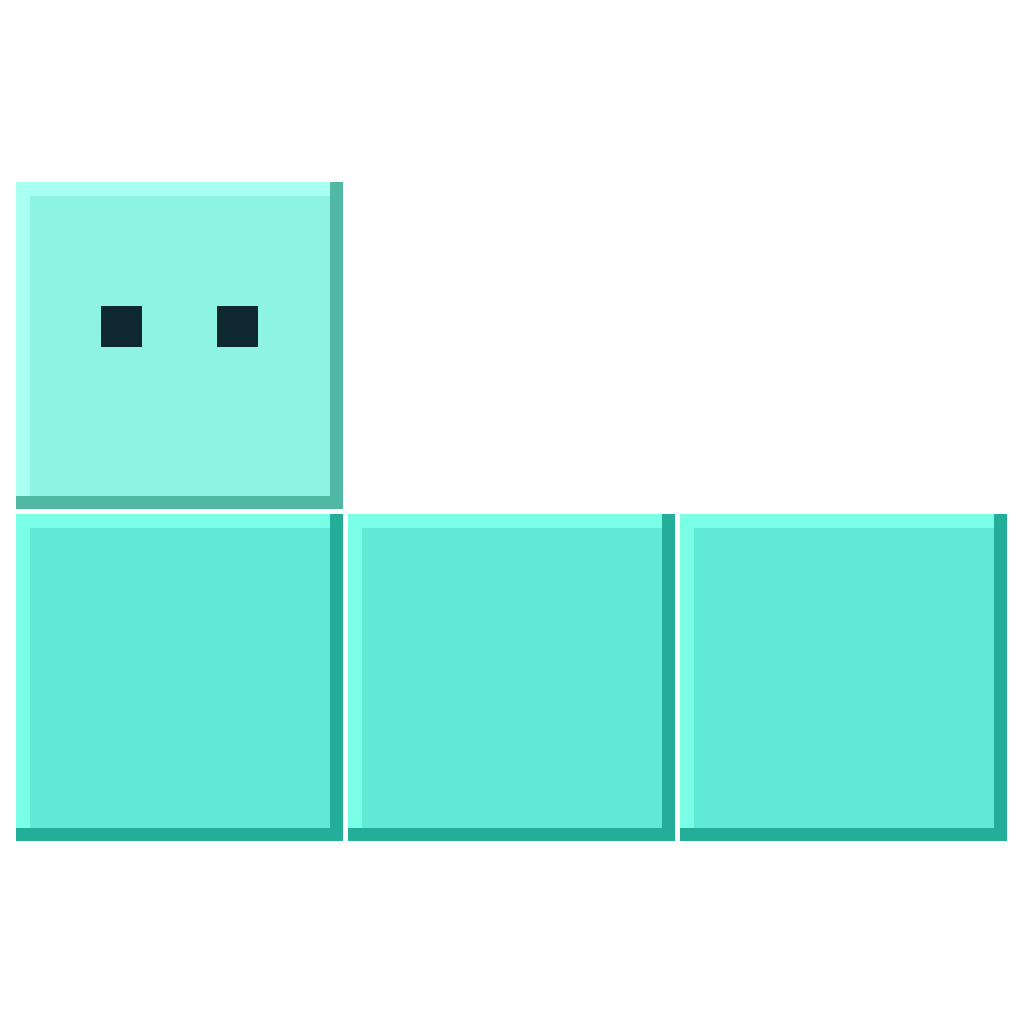
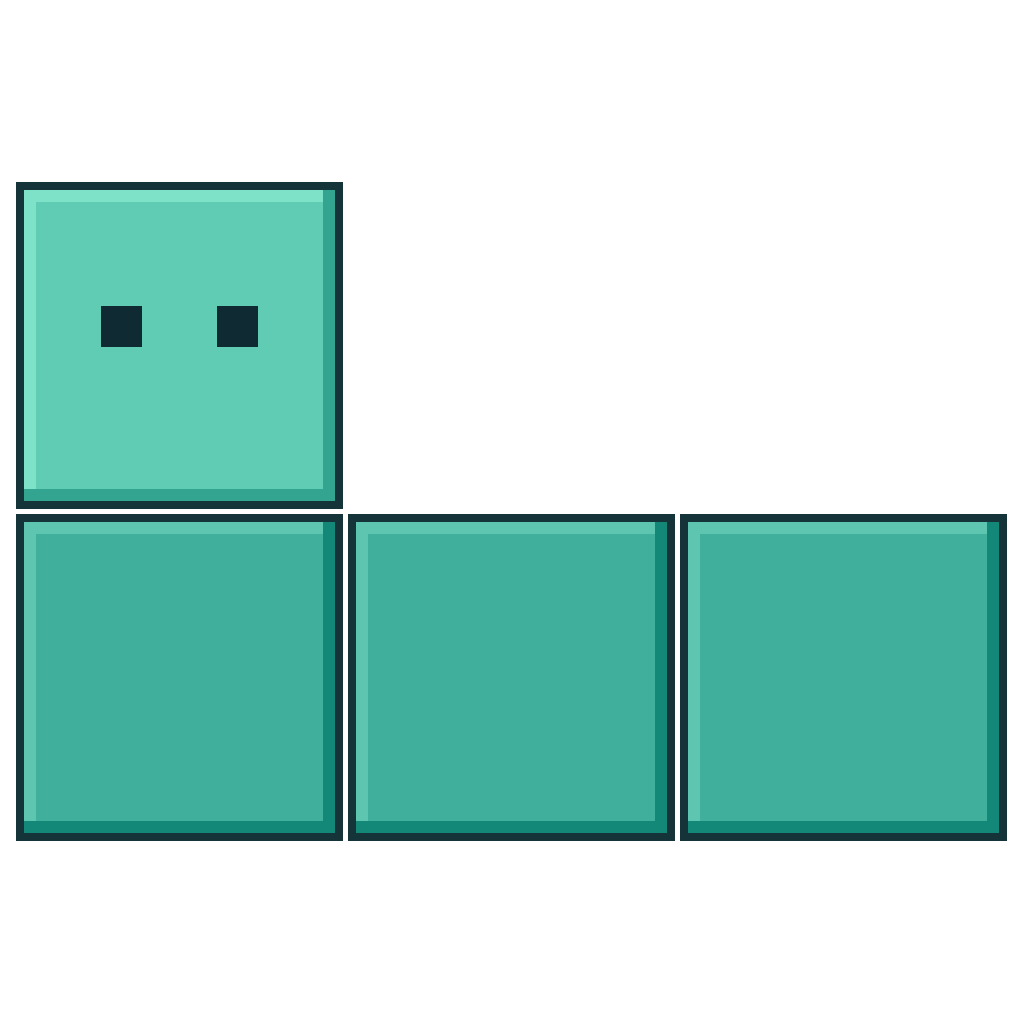
Fix readability across light/dark environments
- Diary dialog: apply explicit dark stylesheet so the table doesn't fall
  back to black-on-dark when the host Qt palette isn't auto-dark.
- Score/multiplier overlay: replace 1px drop shadow with 8-direction
  outline so readouts stay legible over white wallpapers/browsers.
- Tray/exe icon: deepen teal and add per-block dark outline so the
  icon no longer glares on light-mode taskbars.

diff --git a/tetris_hover/ui/board_view.py b/tetris_hover/ui/board_view.py
@@ -18,6 +18,23 @@ PREVIEW_COUNT = 4
 SCORE_BUMP_MS = 350
 SCORE_BUMP_MAX = 1.35
 
+# 8-direction offsets for drawing a text outline. A plain drop shadow only
+# helps against dark backgrounds — the overlay can sit over a white browser
+# or bright wallpaper, so we stroke in every direction.
+_OUTLINE_OFFSETS = ((-1, -1), (-1, 0), (-1, 1),
+                    (0, -1),           (0, 1),
+                    (1, -1),  (1, 0),  (1, 1))
+
+
+def _draw_outlined_text(p: QPainter, x: int, y: int, text: str,
+                        fill: QColor, outline_alpha: int = 210) -> None:
+    outline = QColor(0, 0, 0, outline_alpha)
+    p.setPen(outline)
+    for dx, dy in _OUTLINE_OFFSETS:
+        p.drawText(x + dx, y + dy, text)
+    p.setPen(fill)
+    p.drawText(x, y, text)
+
 
 def _bump_scale(elapsed_ms: float) -> float:
     """Ease the bounce: 1.0 → SCORE_BUMP_MAX at the halfway point → 1.0."""
@@ -129,16 +146,10 @@ class BoardView(QWidget):
         cx = bx + bw // 2
         ty = by + int(bh * 0.12) + th // 2  # near top of playfield
 
-        # Soft drop shadow for legibility against blocks.
-        shadow = QColor(0, 0, 0, 140)
-        p.setPen(shadow)
-        p.drawText(cx - tw // 2 + 1, ty + 1, text)
-
         # Bump glow: stronger color during bounce, softer when resting.
         glow_strength = int(60 + 120 * (scale - 1.0) / (SCORE_BUMP_MAX - 1.0)) if scale > 1.0 else 60
         main = QColor(255, 255, 255, 180 + min(60, glow_strength))
-        p.setPen(main)
-        p.drawText(cx - tw // 2, ty, text)
+        _draw_outlined_text(p, cx - tw // 2, ty, text, main)
 
         # Always-visible multiplier readout right under the score. Color tints
         # cool → warm with speed so it's obvious when typing is registering.
@@ -156,10 +167,8 @@ class BoardView(QWidget):
         mg = int(220 - 70 * frac)
         mb = int(230 - 180 * frac)
         malpha = int(140 + 100 * frac)
-        p.setPen(QColor(0, 0, 0, 140))
-        p.drawText(cx - mtw // 2 + 1, ty + th - 2 + 1, mtext)
-        p.setPen(QColor(mr, mg, mb, malpha))
-        p.drawText(cx - mtw // 2, ty + th - 2, mtext)
+        _draw_outlined_text(p, cx - mtw // 2, ty + th - 2, mtext,
+                            QColor(mr, mg, mb, malpha))
 
     @staticmethod
     def _format_score(score: float) -> str:

diff --git a/scripts/make_icon.py b/scripts/make_icon.py
@@ -6,24 +6,33 @@ from PIL import Image, ImageDraw
 
 SIZE = 1024
 
-# Tetris-flavored mint (close to the I-piece cyan family but warmer).
-MINT = (94, 234, 212)
-MINT_LIGHT = (140, 244, 224)  # head — slightly lighter so the face block pops
-EYE = (14, 40, 50)
+# Deepened teal (V dropped from ~92% to ~70%) so the icon doesn't glare on
+# light-mode taskbars while still reading as the same piece family.
+MINT = (64, 176, 156)
+MINT_LIGHT = (96, 204, 180)   # head — slightly lighter so the face block pops
+EYE = (16, 42, 52)
+# Dark outline around each block. Gives edge definition against both
+# near-white (taskbar/browser) and near-black (dark taskbar) backgrounds.
+OUTLINE = (20, 52, 58)
 
 
 def _block(draw: ImageDraw.ImageDraw, x: int, y: int, s: int, rgb: tuple,
            face: bool = False) -> None:
     r, g, b = rgb
-    draw.rectangle((x, y, x + s - 1, y + s - 1), fill=(r, g, b, 255))
-    # Soft 1-step highlight / shadow for just enough depth at small sizes.
-    edge = max(3, s // 24)
-    hi = (min(255, r + 28), min(255, g + 20), min(255, b + 18), 255)
-    draw.rectangle((x, y, x + s - 1, y + edge), fill=hi)
-    draw.rectangle((x, y, x + edge, y + s - 1), fill=hi)
-    sh = (max(0, r - 60), max(0, g - 60), max(0, b - 60), 255)
-    draw.rectangle((x, y + s - edge, x + s - 1, y + s - 1), fill=sh)
-    draw.rectangle((x + s - edge, y, x + s - 1, y + s - 1), fill=sh)
+    ow = max(1, s // 40)
+    # Outline first, then inset fill.
+    draw.rectangle((x, y, x + s - 1, y + s - 1), fill=OUTLINE + (255,))
+    ix0, iy0 = x + ow, y + ow
+    ix1, iy1 = x + s - 1 - ow, y + s - 1 - ow
+    draw.rectangle((ix0, iy0, ix1, iy1), fill=(r, g, b, 255))
+    # Soft 1-step highlight / shadow inside the inset for just enough depth at small sizes.
+    edge = max(2, s // 28)
+    hi = (min(255, r + 30), min(255, g + 22), min(255, b + 20), 255)
+    draw.rectangle((ix0, iy0, ix1, iy0 + edge), fill=hi)
+    draw.rectangle((ix0, iy0, ix0 + edge, iy1), fill=hi)
+    sh = (max(0, r - 45), max(0, g - 40), max(0, b - 36), 255)
+    draw.rectangle((ix0, iy1 - edge, ix1, iy1), fill=sh)
+    draw.rectangle((ix1 - edge, iy0, ix1, iy1), fill=sh)
     if face:
         ez = max(4, s // 8)
         ey = y + int(s * 0.38)

diff --git a/tetris_hover/ui/diary_view.py b/tetris_hover/ui/diary_view.py
@@ -22,6 +22,40 @@ from ..diary import Diary, DayRecord
 _COLUMNS = ["date", "score", "lines", "pieces", "keys", "time", "combo"]
 _COLUMN_WIDTHS = [96, 80, 56, 60, 72, 64, 56]
 
+# Explicit palette so the dialog renders the same regardless of whether the
+# host OS/Qt style hands us a dark or light system palette. Without this, on
+# environments that don't auto-apply a dark palette the table falls back to
+# default black-on-dark and becomes unreadable.
+_DIALOG_STYLE = """
+QDialog { background: #1c1e24; }
+QPushButton {
+    background: rgba(40, 40, 55, 180);
+    color: #dcdce6;
+    border: 1px solid rgba(120, 120, 150, 140);
+    border-radius: 3px;
+    padding: 4px 10px;
+}
+QPushButton:hover { background: rgba(70, 70, 100, 200); }
+QPushButton:checked { background: rgba(90, 110, 140, 220); }
+QTableWidget {
+    background: #1c1e24;
+    alternate-background-color: #23252d;
+    color: #dcdce6;
+    gridline-color: #3a3d47;
+    selection-background-color: #3a4a6a;
+    selection-color: #ffffff;
+    border: 1px solid rgba(120, 120, 150, 100);
+}
+QHeaderView::section {
+    background: #2a2d36;
+    color: #b8b8c4;
+    padding: 4px;
+    border: 0;
+    border-right: 1px solid #3a3d47;
+}
+QTableCornerButton::section { background: #2a2d36; border: 0; }
+"""
+
 
 def _fmt_duration(seconds: int) -> str:
     h = seconds // 3600
@@ -45,6 +79,7 @@ class DiaryDialog(QDialog):
         from .. import __version__
         self.setWindowTitle(f"{__version__.APP_NAME} diary · v{__version__.__version__}")
         self.resize(520, 360)
+        self.setStyleSheet(_DIALOG_STYLE)
         self._diary = diary
         self._sort_mode = "date"
 
@@ -71,6 +106,7 @@ class DiaryDialog(QDialog):
         self.table.setEditTriggers(QTableWidget.NoEditTriggers)
         self.table.setSelectionBehavior(QTableWidget.SelectRows)
         self.table.setSelectionMode(QTableWidget.SingleSelection)
+        self.table.setAlternatingRowColors(True)
         header = self.table.horizontalHeader()
         header.setSectionResizeMode(QHeaderView.Fixed)
         header.setStretchLastSection(False)
